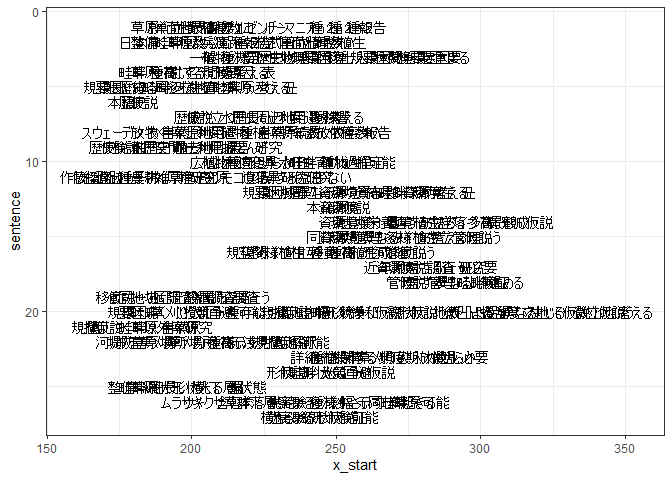
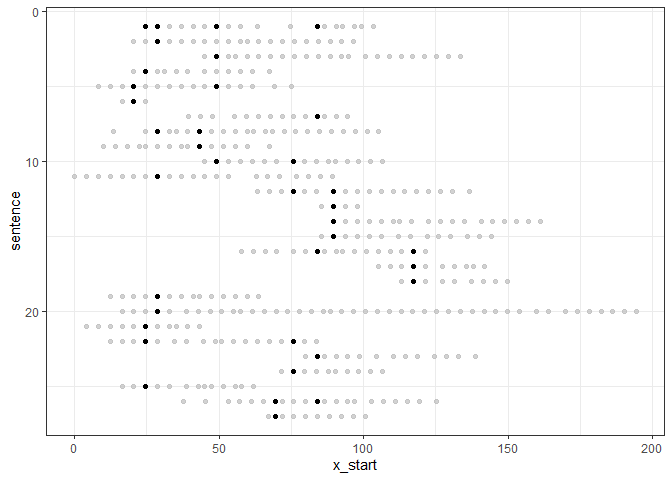
update README

diff --git a/README.md b/README.md
@@ -1,10 +1,7 @@
 
 <!-- README.md is generated from README.Rmd. Please edit that file -->
 
-# pivotea
-
-<!-- badges: start -->
-<!-- badges: end -->
+# anabass
 
 The goal of anabass is to analyse basic structure of sentences for
 better writeings.
@@ -60,39 +57,15 @@ review_sentences <-
   `$`(_, "word") |>
   stringr::str_split(";")
 
-df <-
-  review_sentences |>
-  list2df() |>
-  add_x_pos() |>
-  add_index()
-
-for(i in seq_along(review_sentences)){
-  con <- connect_with(review_sentences, i)
-  diff <- compute_diff_x(df, con)
-  df <- update_x_pos(df, diff)
-}
-print(df)
-#> # A tibble: 426 × 5
-#>    sentence word         x_start x_end index
-#>       <int> <chr>          <dbl> <dbl> <int>
-#>  1        1 草原            184   188.     1
-#>  2        1 おく            188.  192.     2
-#>  3        1 単位            192.  196.     3
-#>  4        1 面積            196.  200.     4
-#>  5        1 世界            200.  204.     5
-#>  6        1 最高            204.  209.     6
-#>  7        1 植物            209.  213.     7
-#>  8        1 種数            213.  217.     8
-#>  9        1 チェコ          217.  223.     9
-#> 10        1 アルゼンチン    223.  234     10
-#> # ℹ 416 more rows
-
+df <- connect_sentences(review_sentences)
 
 df |>
   ggplot2::ggplot(ggplot2::aes(x = x_start, y = sentence, label = word)) +
-  ggplot2::geom_text() +
+  ggplot2::geom_point() +
+  gghighlight::gghighlight(highlight == TRUE, label_key = word) +
   ggplot2::scale_y_reverse() +
   ggplot2::theme_bw()
+#> Too many data points, skip labeling
 ```
 
 <img src="man/figures/README-example-1.png" width="100%" />
